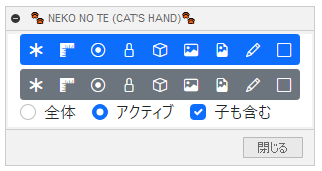
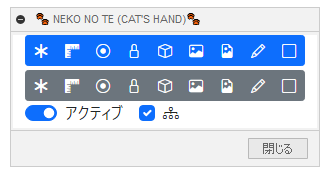
scope Multilingual support

diff --git a/NEKONOTE/commands/NEKONOTE/resources/html/static/palette.js b/NEKONOTE/commands/NEKONOTE/resources/html/static/palette.js
@@ -25,8 +25,7 @@ const BTN_ICONS = {
     "Construction": '<i class="bi bi-square"></i>',
 };
 
-const SCOPE_ALL_ID = "scope_all";
-const SCOPE_ACTIVE_ID = "scope_active";
+const SCOPE_SWITCH_ID = "scope_switch";
 const SCOPE_CHILDREN_ID = "scope_children";
 
 document.addEventListener("DOMContentLoaded", () => {
@@ -47,25 +46,26 @@ document.addEventListener("DOMContentLoaded", () => {
                 const row = init_Buttons(button_info);
                 button_group.appendChild(row);
 
-                // スコープ多言語化していない
-                // scope all
-                const scope_all = initRadio(SCOPE_ALL_ID, "全体", button_group);
-                scope_all.checked=true;
-                scope_all.addEventListener(`change`, function(){
-                    let checkbox = document.getElementById(SCOPE_CHILDREN_ID)
-                    checkbox.disabled = scope_all.checked
-                });
-
-                // scope active
-                const scope_active = initRadio(SCOPE_ACTIVE_ID, "アクティブ", button_group);
-                scope_active.addEventListener(`change`, function(){
-                    let checkbox = document.getElementById(SCOPE_CHILDREN_ID)
-                    checkbox.disabled = !scope_active.checked
-                });
+                const scope_switch = initSwitch(
+                    SCOPE_SWITCH_ID,
+                    button_info["Active"],
+                    button_info["All"] + "/" + button_info["Active"],
+                    button_group
+                );
 
                 // scope children
-                const scope_children = initCheck(SCOPE_CHILDREN_ID, "子も含む", button_group)
-                scope_children.checked = true
+                const scope_children = initCheck(
+                    SCOPE_CHILDREN_ID,
+                    button_info["Children"],
+                    button_group);
+                scope_children.checked = true;
+
+                const xxx = initSelect(
+                    "kkk",
+                    button_group,
+                    ["1","2","3"]
+                )
+
             });
         }
     }, 100);
@@ -77,7 +77,7 @@ window.fusionJavaScriptHandler = {
             if (action === "command_event") {
                 let values = JSON.parse(data);
                 dumpLog(values['value']);
-                setDisabled(toBoolean(values["value"]));
+                setDisabledByButton(toBoolean(values["value"]), "button");
             } else if (action === "debugger") {
                 debugger;
             } else {
@@ -129,37 +129,45 @@ function init_Buttons(button_info) {
     return row;
 }
 
-function initRadio(id, text, parent) {
+function initSwitch(id, text, tooltip, parent) {
     // div
-    const div_scope = document.createElement("div");
-    div_scope.setAttribute("class", "form-check form-check-inline");
-    div_scope.setAttribute("id", id + "div");
-    parent.appendChild(div_scope);
+    const scope_div = document.createElement("div");
+    scope_div.setAttribute("class", "form-check form-switch form-check-inline");
+    scope_div.setAttribute("data-bs-toggle", "tooltip");
+    scope_div.setAttribute("data-bs-placement", "top");
+    scope_div.setAttribute("title", tooltip);
 
-    // radio
-    const scope_radio = document.createElement("input");
-    scope_radio.setAttribute("class", "form-check-input");
-    scope_radio.setAttribute("type", "radio");
-    scope_radio.setAttribute("name", "flexRadioScope");
-    scope_radio.setAttribute("id", id);
-    div_scope.appendChild(scope_radio);
+    parent.appendChild(scope_div);
+
+    // input
+    const scope_input = document.createElement("input");
+    scope_input.setAttribute("class", "form-check-input");
+    scope_input.type = "checkbox";
+    scope_input.id = id;
+    scope_input.addEventListener('change',function(){
+        setDisabledById(!scope_input.checked, SCOPE_CHILDREN_ID);
+    });
+    scope_div.appendChild(scope_input);
 
     // label
     const scope_label = document.createElement("label");
     scope_label.setAttribute("class", "form-check-label");
-    scope_label.setAttribute("for", id);
-    scope_label.appendChild(document.createTextNode(text));
-    div_scope.appendChild(scope_label);
+    scope_label.for = id;
+    scope_label.textContent = text
+    scope_div.appendChild(scope_label);
 
-    return scope_radio
+    return scope_input
 }
 
 function initCheck(id, text, parent) {
     // div
-    const div_scope = document.createElement("div");
-    div_scope.setAttribute("class", "form-check form-check-inline");
-    div_scope.setAttribute("id", id + "div");
-    parent.appendChild(div_scope);
+    const scope_div = document.createElement("div");
+    scope_div.setAttribute("class", "form-check form-check-inline");
+    scope_div.setAttribute("id", id + "div");
+    scope_div.setAttribute("data-bs-toggle", "tooltip");
+    scope_div.setAttribute("data-bs-placement", "top");
+    scope_div.setAttribute("title", text);
+    parent.appendChild(scope_div);
 
     // checkbox
     const scope_children = document.createElement("input");
@@ -168,20 +176,32 @@ function initCheck(id, text, parent) {
     scope_children.setAttribute("type", "checkbox");
     scope_children.setAttribute("value", "");
     scope_children.setAttribute("disabled", "true");
-    div_scope.appendChild(scope_children);
+    scope_div.appendChild(scope_children);
 
     // label
     const label_children = document.createElement("label");
     label_children.setAttribute("class", "form-check-label");
     label_children.setAttribute("for", id);
-    label_children.appendChild(document.createTextNode(text));
-    div_scope.appendChild(label_children);
+    label_children.innerHTML = '<i class="bi bi-diagram-3"></i>'
+    // label_children.appendChild(document.createTextNode(text));
+    scope_div.appendChild(label_children);
 
     return scope_children
 }
 
 function getScopeValue() {
-    const scope_active = document.getElementById(SCOPE_ACTIVE_ID)
+    // const scope_active = document.getElementById(SCOPE_ACTIVE_ID)
+    // if (scope_active.checked) {
+    //     const scope_children = document.getElementById(SCOPE_CHILDREN_ID)
+    //     if (scope_children.checked) {
+    //         return "CHILDREN"
+    //     } else {
+    //         return "ACTIVE"
+    //     }
+    // } else {
+    //     return "ALL"
+    // }
+    const scope_active = document.getElementById(SCOPE_SWITCH_ID)
     if (scope_active.checked) {
         const scope_children = document.getElementById(SCOPE_CHILDREN_ID)
         if (scope_children.checked) {
@@ -194,12 +214,17 @@ function getScopeValue() {
     }
 }
 
-function setDisabled(value) {
+function setDisabledByButton(value) {
     let buttons = document.getElementsByTagName("button");
     let len = buttons.length;
     for (let i = 0; i < len; i++){
         buttons.item(i).disabled = value
     }
+}
+
+function setDisabledById(value, id) {
+    let elem = document.getElementById(id);
+    elem.disabled = value
 }
 
 function toBoolean(data) {

diff --git a/NEKONOTE/commands/NEKONOTE/entry.py b/NEKONOTE/commands/NEKONOTE/entry.py
@@ -1,10 +1,11 @@
 import json
 import adsk.core
-import os
+# import os
 import pathlib
 from ...lib import fusion360utils as futil
 from ... import config
 from .show_hide_factry import setTreeFolderVisible
+from .enums import Dirname, Scope
 
 THIS_DIR = pathlib.Path(__file__).resolve().parent
 
@@ -49,8 +50,6 @@ local_handlers = []
 
 BUTTONSETTING = str(THIS_DIR / 'resources' / 'json' / 'button_setting.json')
 
-from .enums import Dirname, Scope
-
 DIR_MAP = {
     "Origin": Dirname.Origin,
     "Analysis": Dirname.Analysis,
@@ -74,6 +73,21 @@ PRODUCT_TYPE_WHITE_LIST = (
 )
 
 _handlers = []
+
+# ** debug **
+DEBUG_LANG_MODE = False
+LANGS = [
+    "de-DE",
+    "en-US",
+    "es-ES",
+    "fr-FR",
+    "it-IT",
+    "ja-JP",
+    "ko-KR",
+    "zh-CN",
+]
+DEBUG_LANG = LANGS[0]
+# ********
 
 # Executed when add-in is run.
 def start():
@@ -209,6 +223,10 @@ def palette_incoming(html_args: adsk.core.HTMLEventArgs):
         if not lang in button_Dict:
             lang = 'en-US'
 
+        # **debug **
+        if DEBUG_LANG_MODE:
+            lang = DEBUG_LANG
+
         # https://cortyuming.hateblo.jp/entry/20140920/p2
         html_args.returnData = json.dumps(button_Dict[lang], ensure_ascii=False)
     elif message_action in DIR_MAP:
@@ -216,7 +234,6 @@ def palette_incoming(html_args: adsk.core.HTMLEventArgs):
             DIR_MAP[message_action],
             message_data['value'],
             SCOPE_MAP[message_data['scope']],
-            # Scope.ALL#TEST
             )
     elif message_action == 'response':
         pass

diff --git a/README.md b/README.md
@@ -49,14 +49,15 @@
 
 #### 処理範囲:
 
-+ 全体：アクティブなドキュメント全体に対して表示/非表示します。
-+ アクティブ: アクティブなコンポーネントの要素に対してのみ表示/非表示します。
-+ アクティブ+子も含む: アクティブなコンポーネント以下の要素に対してのみ表示/非表示します。
++ OFF：アクティブなドキュメント全体に対して表示/非表示します。
++ ON: アクティブなコンポーネントの要素に対してのみ表示/非表示します。
++ ON+子も含む: アクティブなコンポーネント以下の要素に対してのみ表示/非表示します。
 
 ---
 
 ## **注意・制限** :
 
++ MACの動作未確認。
 + ”デザイン” "レンダリング" 時のみ機能します。
 + 何か選択している状態で、表示/非表示を行うと選択が解除されます。
 + 非表示コンポーネントについては、表示/非表示の変更は行いません。
@@ -103,7 +104,7 @@
 
 以下の環境で確認しています。
 
-- Fusion360 Ver2.0.13881
+- Fusion360 Ver2.0.14104
 - Windows10 64bit Pro , Home
 
 ---

diff --git a/CHANGELOG.md b/CHANGELOG.md
@@ -1,5 +1,9 @@
 # Change of Fusion360 NEKONOTE
 
+## 0.0.6
++ 範囲用のラジオボタンをスイッチに変更
++ 範囲部分、多言語化対応
+
 ## 0.0.5
 + 処理範囲用のラジオ・チェックボタンの追加
 
